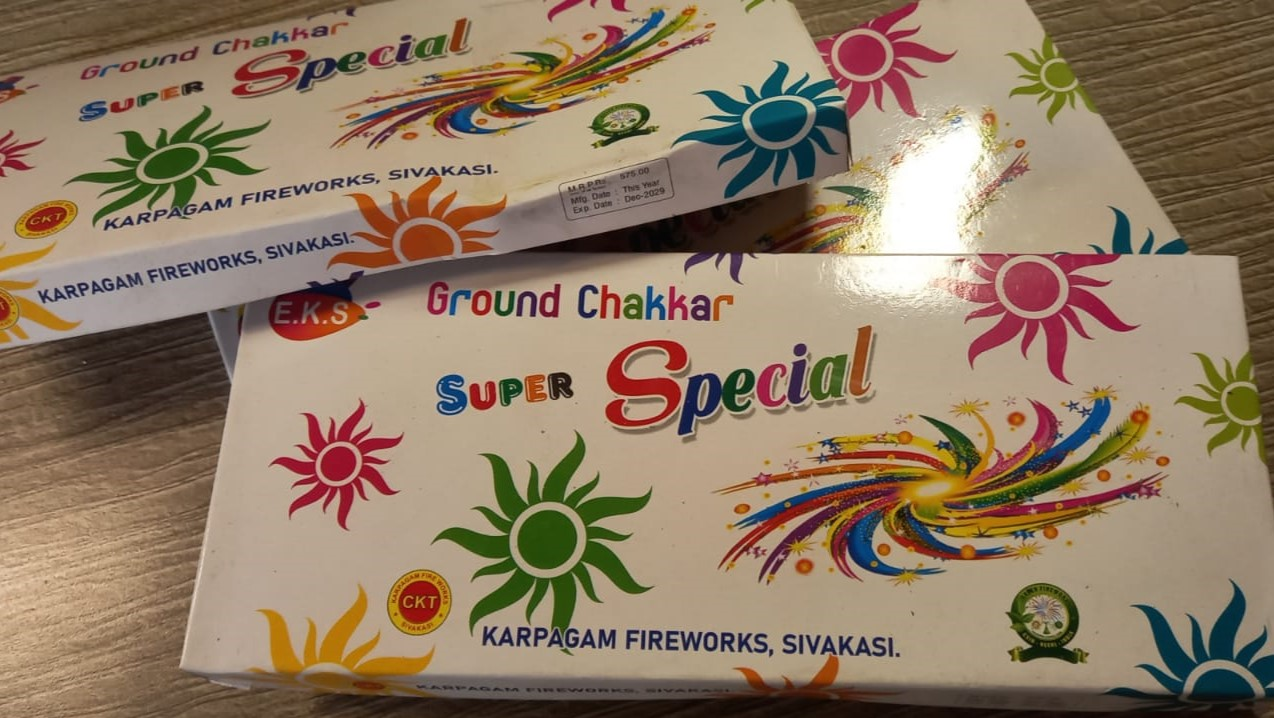
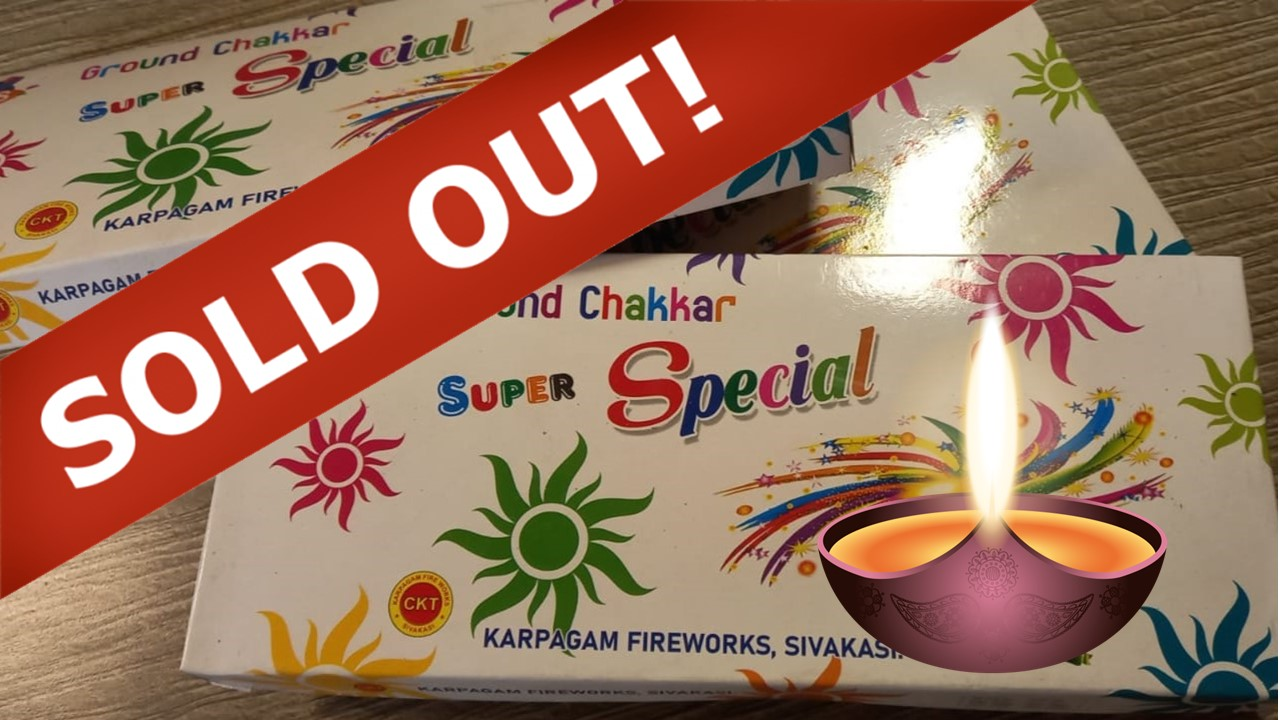
edited

diff --git a/Desktop/cat.js b/Desktop/cat.js
@@ -67,14 +67,6 @@ function buynoww5(){
     var amount=s.innerText;
     document.getElementById("proamount").value = "Product Amount: "+amount;
 }
-function buynoww6(){
-    var t= document.getElementById("itemname6");
-    var name=t.innerText;
-    document.getElementById("proname").value = "Product Name: "+name;
-    var s= document.getElementById("itemamount6");
-    var amount=s.innerText;
-    document.getElementById("proamount").value = "Product Amount: "+amount;
-}
 function buynoww7(){
     var t= document.getElementById("itemname7");
     var name=t.innerText;
@@ -142,14 +134,6 @@ function buynoww16(){
     var amount=s.innerText;
     document.getElementById("proamount").value = "Product Amount: "+amount;
 }
-function buynoww18(){
-    var t= document.getElementById("itemname18");
-    var name=t.innerText;
-    document.getElementById("proname").value = "Product Name: "+name;
-    var s= document.getElementById("itemamount18");
-    var amount=s.innerText;
-    document.getElementById("proamount").value = "Product Amount: "+amount;
-}
 function buynoww19(){
     var t= document.getElementById("itemname19");
     var name=t.innerText;
@@ -174,14 +158,7 @@ function buynoww24(){
     var amount=s.innerText;
     document.getElementById("proamount").value = "Product Amount: "+amount;
 }
-function buynoww25(){
-    var t= document.getElementById("itemname25");
-    var name=t.innerText;
-    document.getElementById("proname").value = "Product Name: "+name;
-    var s= document.getElementById("itemamount25");
-    var amount=s.innerText;
-    document.getElementById("proamount").value = "Product Amount: "+amount;
-}
+
 function buynoww26(){
     var t= document.getElementById("itemname26");
     var name=t.innerText;

diff --git a/Mobile/cat.js b/Mobile/cat.js
@@ -67,14 +67,6 @@ function buynoww5(){
     var amount=s.innerText;
     document.getElementById("proamount").value = "Product Amount: "+amount;
 }
-function buynoww6(){
-    var t= document.getElementById("itemname6");
-    var name=t.innerText;
-    document.getElementById("proname").value = "Product Name: "+name;
-    var s= document.getElementById("itemamount6");
-    var amount=s.innerText;
-    document.getElementById("proamount").value = "Product Amount: "+amount;
-}
 function buynoww7(){
     var t= document.getElementById("itemname7");
     var name=t.innerText;
@@ -142,14 +134,6 @@ function buynoww16(){
     var amount=s.innerText;
     document.getElementById("proamount").value = "Product Amount: "+amount;
 }
-function buynoww18(){
-    var t= document.getElementById("itemname18");
-    var name=t.innerText;
-    document.getElementById("proname").value = "Product Name: "+name;
-    var s= document.getElementById("itemamount18");
-    var amount=s.innerText;
-    document.getElementById("proamount").value = "Product Amount: "+amount;
-}
 function buynoww19(){
     var t= document.getElementById("itemname19");
     var name=t.innerText;
@@ -174,14 +158,7 @@ function buynoww24(){
     var amount=s.innerText;
     document.getElementById("proamount").value = "Product Amount: "+amount;
 }
-function buynoww25(){
-    var t= document.getElementById("itemname25");
-    var name=t.innerText;
-    document.getElementById("proname").value = "Product Name: "+name;
-    var s= document.getElementById("itemamount25");
-    var amount=s.innerText;
-    document.getElementById("proamount").value = "Product Amount: "+amount;
-}
+
 function buynoww26(){
     var t= document.getElementById("itemname26");
     var name=t.innerText;

diff --git a/Desktop/catalogs.html b/Desktop/catalogs.html
@@ -66,7 +66,7 @@
         <h3 id="itemname6">Thunder Anar</h3>
         <p style="color: yellow;" >MRP- ₹650</p>
         <h6 id="itemamount6">Our Price- ₹449</h6>
-        <button onclick="buynoww6()" class="buy-4"><a href="#formtp">Buy Now</a></button>
+        <button class="buy-4"><a>Sold Out!!</a></button>
     </div>
 
 
@@ -172,7 +172,7 @@
         <h3 id="itemname18">Color chakra</h3>
         <p style="color: yellow;">MRP- ₹575</p>
         <h6 id="itemamount18">Our Price- ₹299</h6>
-        <button onclick="buynoww18()" class="buy-4"><a href="#formtp">Buy Now</a></button>
+        <button class="buy-4"><a>Sold Out!!</a></button>
     </div>
     
     <div class="content">
@@ -228,7 +228,7 @@
         <h3 id="itemname25">Cartoon shots</h3>
         <p style="color: yellow;">MRP- ₹150</p>
         <h6 id="itemamount25">Our Price- ₹89</h6>
-        <button onclick="buynoww25()" class="buy-4"><a href="#formtp">Buy Now</a></button>
+        <button class="buy-4"><a>Sold Out!!</a></button>
     </div>
     
     <div class="content">

diff --git a/Mobile/catalogs.html b/Mobile/catalogs.html
@@ -66,7 +66,7 @@
         <h3 id="itemname6">Thunder Anar</h3>
         <p style="color: yellow;" >MRP- ₹650</p>
         <h6 id="itemamount6">Our Price- ₹449</h6>
-        <button onclick="buynoww6()" class="buy-4"><a href="#formtp">Buy Now</a></button>
+        <button class="buy-4"><a>Sold Out!!</a></button>
     </div>
 
 
@@ -172,7 +172,7 @@
         <h3 id="itemname18">Color chakra</h3>
         <p style="color: yellow;">MRP- ₹575</p>
         <h6 id="itemamount18">Our Price- ₹299</h6>
-        <button onclick="buynoww18()" class="buy-4"><a href="#formtp">Buy Now</a></button>
+        <button class="buy-4"><a>Sold Out!!</a></button>
     </div>
     
     <div class="content">
@@ -228,7 +228,7 @@
         <h3 id="itemname25">Cartoon shots</h3>
         <p style="color: yellow;">MRP- ₹150</p>
         <h6 id="itemamount25">Our Price- ₹89</h6>
-        <button onclick="buynoww25()" class="buy-4"><a href="#formtp">Buy Now</a></button>
+        <button class="buy-4"><a>Sold Out!!</a></button>
     </div>
     
     <div class="content">
